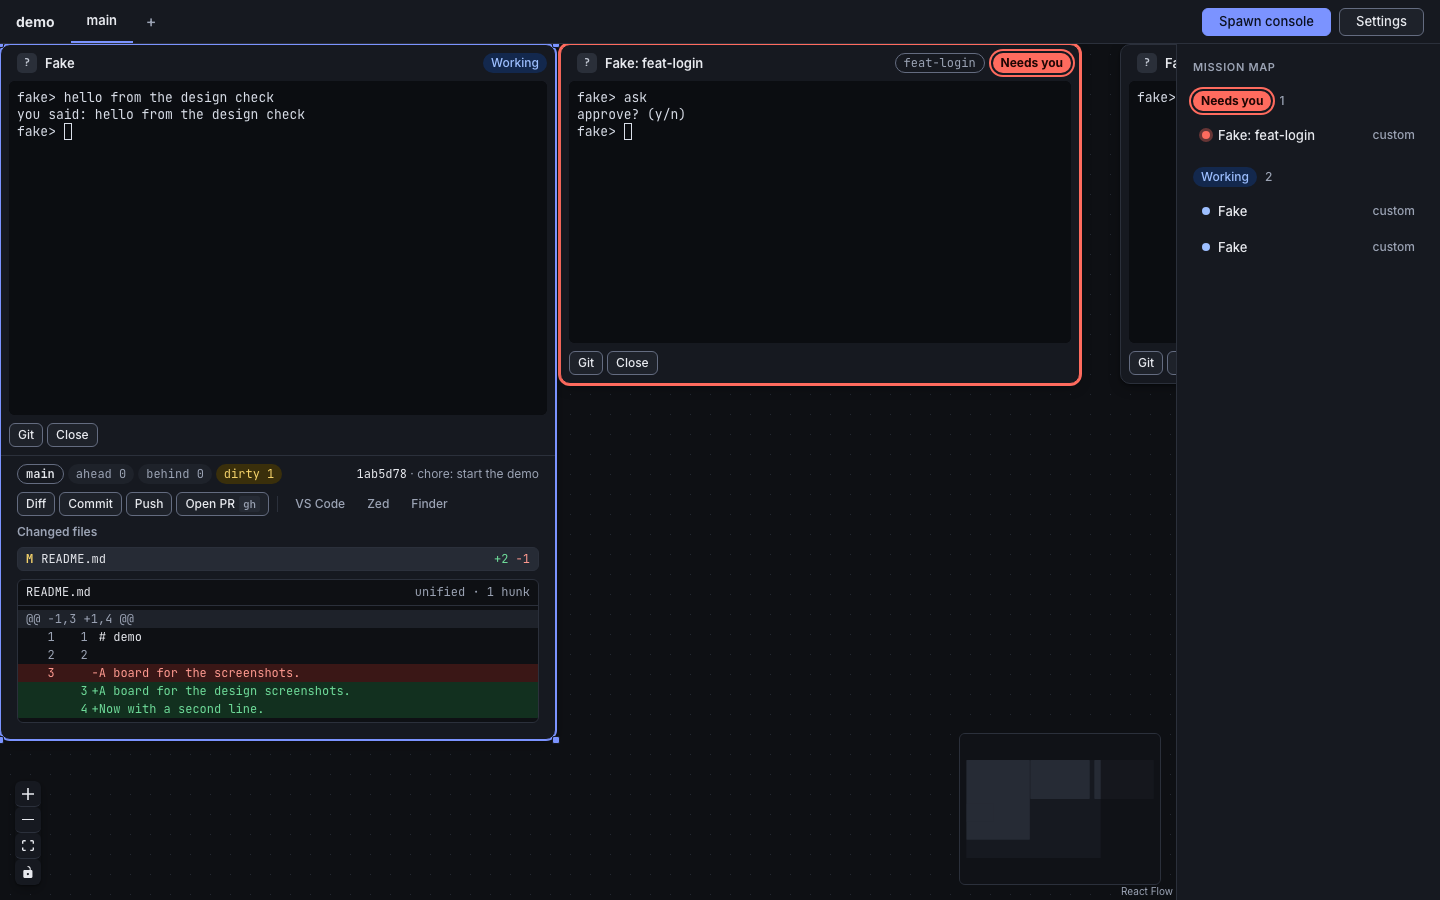
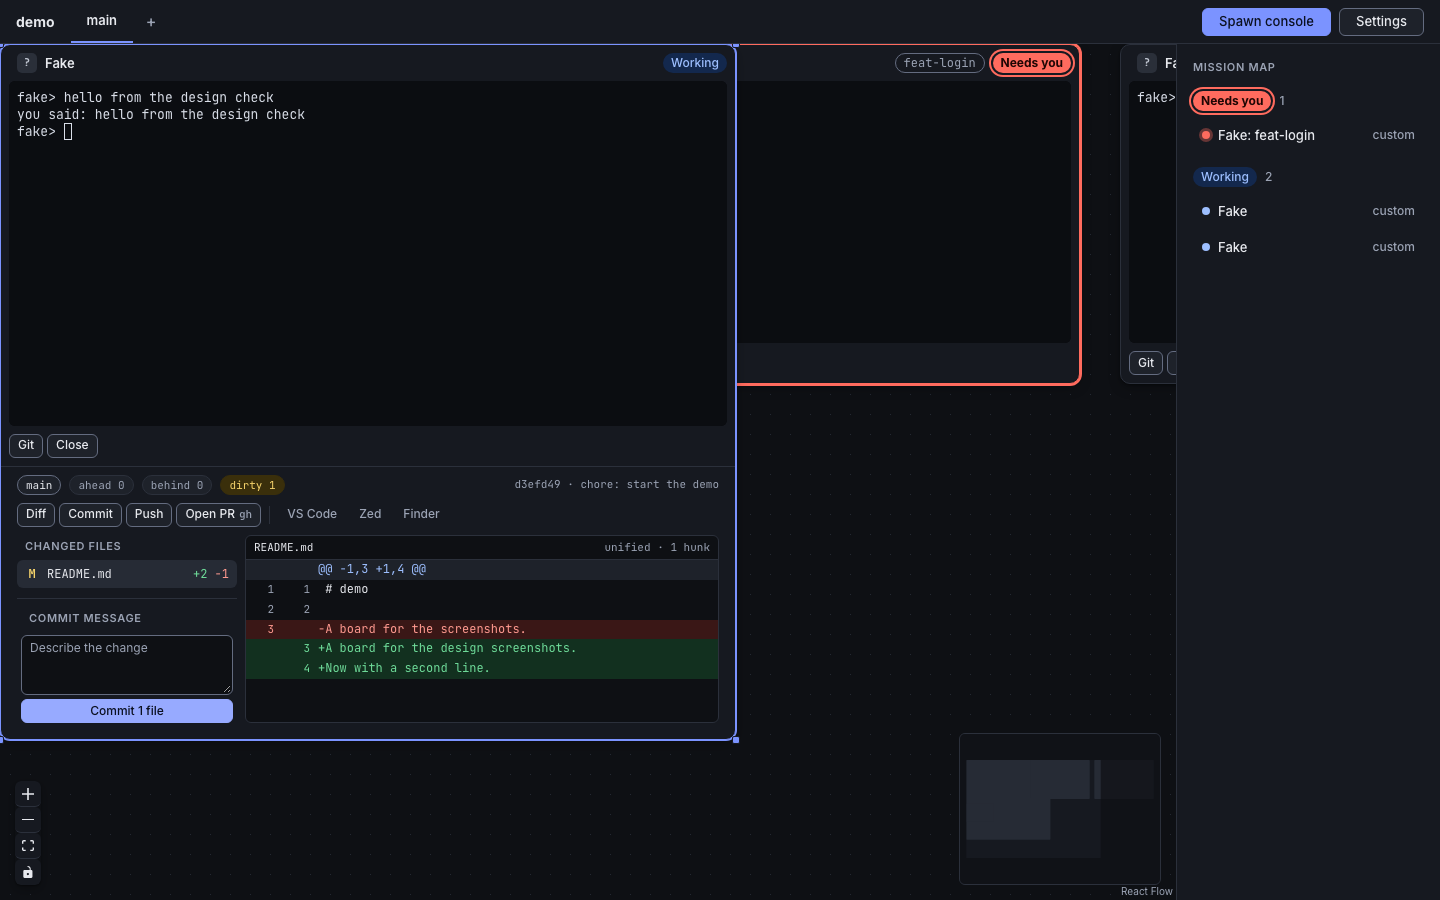
feat: git card chips, labels, file rows and diff gutters follow the phase 2 mockup; the shot shows files beside the diff with the commit form

diff --git a/packages/ui/src/styles/git.css b/packages/ui/src/styles/git.css
@@ -10,13 +10,27 @@
   display: flex;
   flex-wrap: wrap;
   align-items: center;
-  gap: var(--space-half);
+  gap: var(--space-1);
   min-width: 0;
 }
 
-.git-card .git-branch {
+.git-card .git-head .chip,
+.git-card .git-stat {
+  height: 20px;
+  padding: 0 var(--space-1);
+  border: 1px solid var(--color-border);
+  border-radius: var(--radius-pill);
+  background: var(--color-surface-raised);
+  color: var(--color-text-muted);
+  font-family: var(--font-mono);
+  font-size: var(--text-2xs);
+  font-weight: 400;
+  line-height: 18px;
+}
+
+.git-card .git-head .git-branch {
+  border-color: var(--color-border-strong);
   color: var(--color-text);
-  font-weight: 600;
 }
 
 .git-card .git-from {
@@ -24,25 +38,16 @@
   font-size: var(--text-xs);
 }
 
-.git-card .git-stat {
-  height: 20px;
-  padding: 0 var(--space-1);
-  border-radius: var(--radius-pill);
-  background: var(--color-surface-raised);
-  color: var(--color-text-muted);
-  font-family: var(--font-mono);
-  font-size: var(--text-xs);
-  line-height: 20px;
-}
-
 .git-card .git-stat.ahead {
-  color: var(--status-idle-fg);
+  border-color: var(--status-idle-bg);
   background: var(--status-idle-bg);
+  color: var(--status-idle-fg);
 }
 
 .git-card .git-stat.dirty {
-  color: var(--status-starting-fg);
+  border-color: var(--status-starting-bg);
   background: var(--status-starting-bg);
+  color: var(--status-starting-fg);
 }
 
 .git-card .git-last {
@@ -50,15 +55,15 @@
   min-width: 0;
   overflow: hidden;
   color: var(--color-text-muted);
-  font-size: var(--text-xs);
+  font-family: var(--font-mono);
+  font-size: var(--text-2xs);
   text-align: right;
   text-overflow: ellipsis;
   white-space: nowrap;
 }
 
 .git-card .git-sha {
-  color: var(--color-text);
-  font-family: var(--font-mono);
+  font-family: inherit;
 }
 
 /* ---- Action row: git actions, a divider, then the quiet open-in buttons ---- */
@@ -70,18 +75,14 @@
 }
 
 .git-card .git-hint {
-  padding: 0 var(--space-half);
-  border-radius: var(--radius-xs);
-  background: var(--color-surface-hover);
   color: var(--color-text-muted);
   font-family: var(--font-mono);
   font-size: var(--text-2xs);
-  line-height: 16px;
 }
 
 .git-card .git-divider {
   width: 1px;
-  height: 16px;
+  height: 18px;
   margin: 0 var(--space-half);
   background: var(--color-border);
 }
@@ -101,16 +102,25 @@
   color: var(--color-text);
 }
 
-/* ---- Commit ---- */
+/* ---- Commit: under the action row, or under the changed files while the diff is open ---- */
 .git-card .git-commit {
   display: grid;
   gap: var(--space-half);
 }
 
+.git-card .diff-files .git-commit {
+  margin-top: var(--space-1);
+  padding: var(--space-1) var(--space-half) 0;
+  border-top: 1px solid var(--color-border);
+}
+
 .git-card .git-commit textarea {
-  font-family: var(--font-mono);
   font-size: var(--text-xs);
   resize: vertical;
+}
+
+.git-card .diff-files .git-commit button {
+  width: 100%;
 }
 
 .git-card .git-commit button {
@@ -127,7 +137,7 @@
 /* ---- Diff: changed files on the left, the selected file's unified diff on the right ---- */
 .git-card .diff-view {
   display: grid;
-  grid-template-columns: minmax(160px, 1fr) 3fr;
+  grid-template-columns: 220px minmax(0, 1fr);
   gap: var(--space-1);
   min-width: 0;
 }
@@ -139,10 +149,15 @@
 }
 
 .git-card .diff-files {
-  display: grid;
-  align-content: start;
+  display: flex;
+  flex-direction: column;
   gap: 2px;
   min-width: 0;
+  font-family: var(--font-sans);
+}
+
+.git-card .diff-files .section-title {
+  padding: var(--space-half) var(--space-1);
 }
 
 .git-card .diff-files-list {
@@ -153,35 +168,28 @@
   list-style: none;
 }
 
-.git-card .diff-files .field-label {
-  padding-bottom: var(--space-half);
-  font-family: var(--font-sans);
-}
-
 .git-card .diff-file {
   justify-content: flex-start;
   gap: var(--space-1);
   width: 100%;
-  height: 24px;
+  height: 28px;
   padding: 0 var(--space-1);
-  border-color: transparent;
+  border: 0;
+  border-radius: var(--radius-sm);
   background: transparent;
+  color: var(--color-text);
   font-family: var(--font-mono);
   font-size: var(--text-xs);
   font-weight: 400;
 }
 
-.git-card .diff-file:hover {
-  background: var(--color-surface-hover);
-}
-
+.git-card .diff-file:hover,
 .git-card .diff-file[aria-pressed="true"] {
-  border-color: var(--color-border);
   background: var(--color-surface-hover);
 }
 
 .git-card .diff-file-status {
-  width: 1ch;
+  width: 14px;
   flex: none;
   color: var(--color-text-muted);
   font-weight: 700;
@@ -207,6 +215,8 @@
 .git-card .diff-count-removed { color: var(--diff-removed-fg); }
 
 .git-card .diff-pane {
+  display: flex;
+  flex-direction: column;
   min-width: 0;
   overflow: hidden;
   border: 1px solid var(--color-border);
@@ -222,7 +232,7 @@
   border-bottom: 1px solid var(--color-border);
   color: var(--color-text-muted);
   font-family: var(--font-mono);
-  font-size: var(--text-xs);
+  font-size: var(--text-2xs);
   white-space: nowrap;
 }
 
@@ -234,31 +244,39 @@
 
 .git-card .diff {
   margin: 0;
-  padding: var(--space-half) 0;
+  padding: 0;
   border: 0;
   border-radius: 0;
   background: transparent;
+  color: var(--color-text);
   font-family: var(--font-mono);
   font-size: var(--text-xs);
-  line-height: 1.5;
+  line-height: 1.65;
   overflow: auto;
 }
 
+/* Rows with gutters start at the gutter; hunk headers and header lines line up with the code after it. */
 .git-card .diff > div {
-  padding: 0 var(--space-1);
-  min-height: 1.5em;
+  min-height: 1.65em;
+  padding: 0 var(--space-1) 0 72px;
+}
+
+.git-card .diff > div:has(> .diff-ln) {
+  padding-left: 0;
 }
 
 .git-card .diff > .diff-hunk {
-  color: var(--color-text-muted);
+  color: var(--status-working-fg);
   background: var(--color-surface-raised);
 }
 
 .git-card .diff-ln {
   display: inline-block;
-  width: 4ch;
-  margin-right: var(--space-half);
+  box-sizing: border-box;
+  width: 36px;
+  padding-right: var(--space-1);
   color: var(--color-text-muted);
+  font-size: var(--text-2xs);
   text-align: right;
   user-select: none;
 }

diff --git a/docs/design/shots.ts b/docs/design/shots.ts
@@ -110,10 +110,12 @@ test("screenshots", async ({ page }) => {
   const box = (await handle.boundingBox())!;
   await page.mouse.move(box.x + box.width / 2, box.y + box.height / 2);
   await page.mouse.down();
-  await page.mouse.move(box.x + 40, box.y + 360, { steps: 8 });
+  // Wide enough (over 560 px) for the changed files to sit beside the diff, as in the phase 2 mockup.
+  await page.mouse.move(box.x + 220, box.y + 360, { steps: 8 });
   await page.mouse.up();
   await nodes.nth(0).getByRole("button", { name: "Git" }).click();
   await nodes.nth(0).getByText("Diff").click();
+  if (process.env.SHOTS !== "before") await nodes.nth(0).getByRole("button", { name: "Commit", exact: true }).click();
   await expect(nodes.nth(0).getByText("Now with a second line.")).toBeVisible();
   await page.waitForTimeout(300);
   await page.screenshot({ path: out("05-git-card") });
